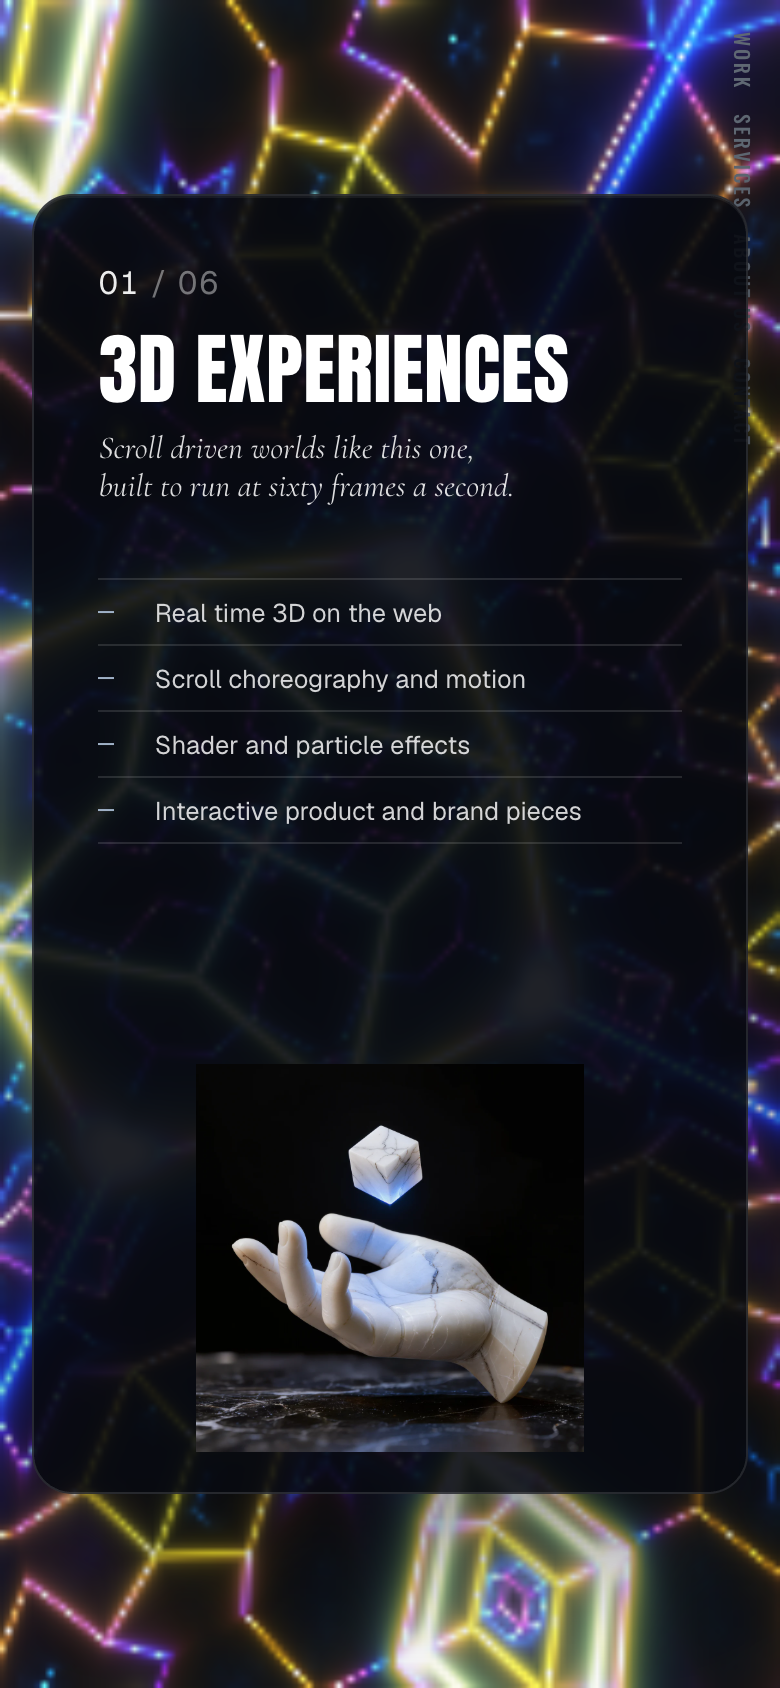
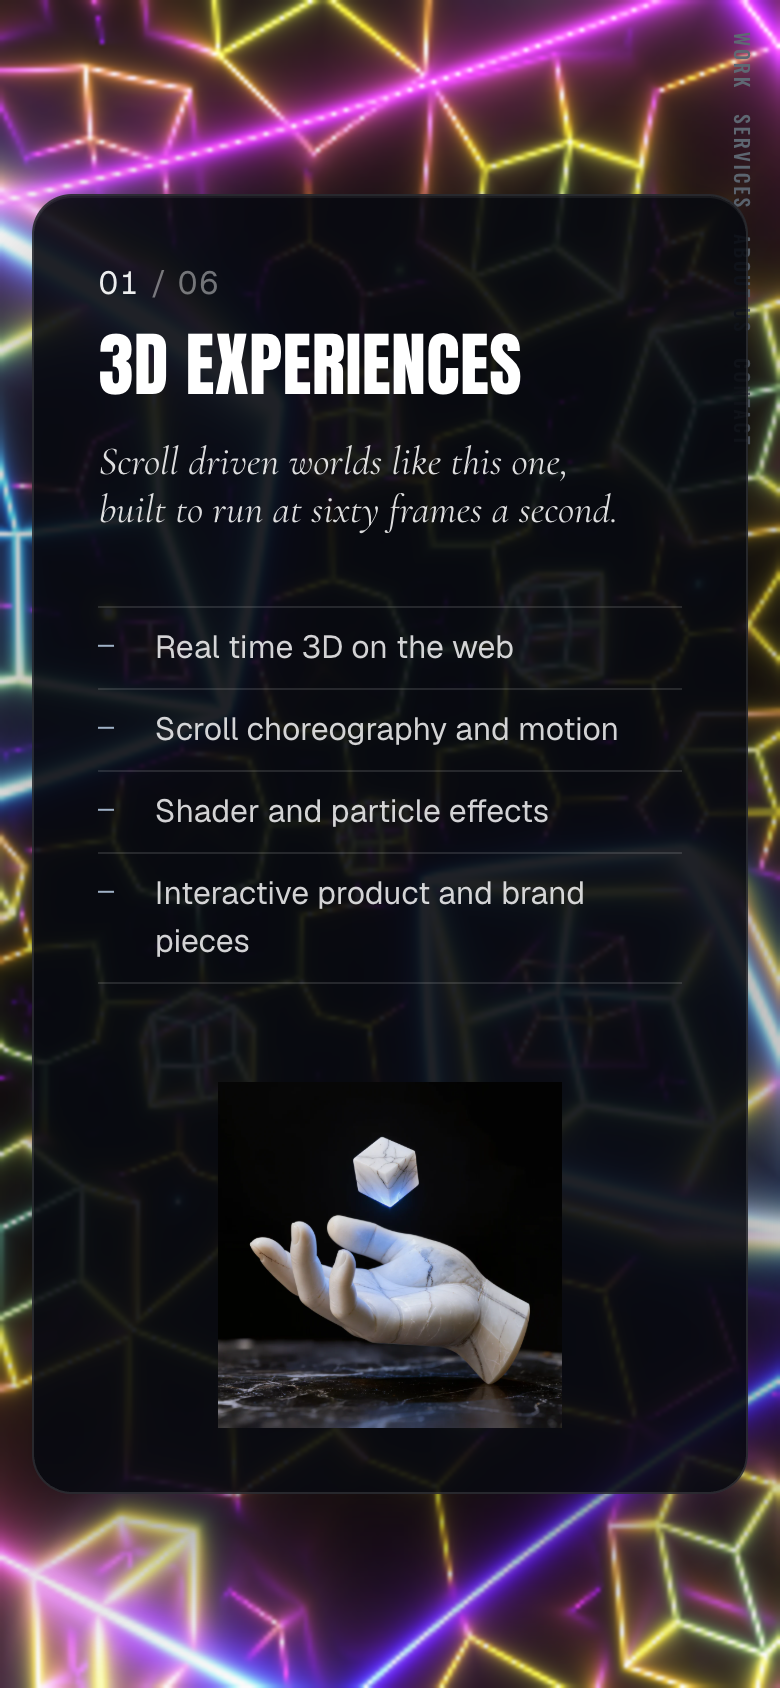
Phones: notice pointing at desktop, geode at half resolution, outlives line in full ink, service cards fill with the picture taking the remaining height
Claude-Session: https://claude.ai/code/session_01NAdPXLUXCGhh82qBsMYyAh

diff --git a/src/app/globals.css b/src/app/globals.css
@@ -1131,7 +1131,7 @@ footer.section {
   /* the statue has the left, so the first three lines take the right */
   .copy--left { left: auto; right: 1rem; top: 12%; transform: none; text-align: right; width: min(66vw, 26ch); }
   .copy--left-a { left: auto; right: 1rem; top: 30%; text-align: right; width: min(60vw, 22ch); }
-  .copy--left-b { left: auto; right: 1rem; top: 55%; text-align: right; width: min(54vw, 22ch); }
+  .copy--left-b { left: auto; right: 1rem; top: 55%; text-align: right; width: min(54vw, 22ch); color: var(--ink); }
   .copy--tight { width: min(76vw, 24ch); top: 9%; font-size: clamp(1.6rem, 7.4vw, 2.5rem); line-height: 1.16; letter-spacing: 0.05em; }
   .copy--right { top: auto; bottom: 24%; transform: none; width: min(72vw, 30ch); }
   /* the pillar stands right of centre: the stack keeps to the left */
@@ -1143,12 +1143,15 @@ footer.section {
   .copy--bottom { width: 92vw; bottom: 6%; }
   /* photos back on the cards: the service image sits under the lead, the project phone shot on the right */
   .deck__card { grid-template-rows: 1fr; }
-  .deck__figure { display: block; position: absolute; left: 1.25rem; right: 1.25rem; bottom: 1.25rem; height: 30%; margin: 0; border: 0; background: transparent; }
-  .deck__figure img { width: 100%; height: 100%; object-fit: contain; }  /* the whole picture, never a crop */
-  .deck__text { padding-bottom: 32%; }
-  .deck__lead { font-size: var(--step-0); }
-  .deck__points { font-size: var(--step--1); margin-top: 1rem; }
-  .deck__points li { padding: 0.4rem 0; }
+  /* the card is a column: text first, the picture takes whatever height is left, whole and uncropped */
+  .deck__card { display: flex; flex-direction: column; }
+  .deck__text { flex: 0 0 auto; padding-bottom: 0; }
+  .deck__figure { display: block; position: static; flex: 1 1 auto; min-height: 0; margin: 1rem 0 0; border: 0; background: transparent; }
+  .deck__figure img { width: 100%; height: 100%; object-fit: contain; }
+  .deck__title { font-size: clamp(2rem, 9vw, 3rem); }
+  .deck__lead { font-size: var(--step-1); margin-top: 0.5rem; }
+  .deck__points { font-size: var(--step-0); margin-top: 1rem; }
+  .deck__points li { padding: 0.5rem 0; }
   .copy--stack-1 { color: var(--ink); }
   .work__card { grid-template-columns: 1fr 34%; gap: 0.75rem; }
   .work__phone { display: block; margin: 0; align-self: center; }
@@ -1163,3 +1166,10 @@ html.is-locked { touch-action: none; overscroll-behavior: none; }
 
 .still-wrap { bottom: auto; height: 100lvh; }  /* the largest viewport: never resizes as the toolbar collapses */
 .still-scene { position: absolute; inset: 0; width: 100%; height: 100%; display: block; }
+
+/* the phone notice */
+.notice { position: fixed; left: 1rem; right: 1rem; bottom: 1rem; z-index: 50; display: flex; align-items: center; gap: 0.75rem; padding: 0.8rem 0.9rem 0.8rem 1rem; border-radius: 0.9rem; background: rgba(20, 32, 46, 0.92); color: var(--marble); font-family: var(--font-body); font-size: var(--step--1); line-height: 1.35; box-shadow: 0 12px 30px rgba(20, 32, 46, 0.3); animation: notice-in 400ms cubic-bezier(0.2, 0.8, 0.2, 1) both; }
+.notice.is-gone { animation: notice-out 300ms ease both; pointer-events: none; }
+.notice button { flex: 0 0 auto; width: 2rem; height: 2rem; border: 0; border-radius: 50%; background: rgba(255, 255, 255, 0.12); color: inherit; font-size: 1.1rem; line-height: 1; }
+@keyframes notice-in { from { opacity: 0; transform: translateY(12px); } to { opacity: 1; transform: none; } }
+@keyframes notice-out { to { opacity: 0; transform: translateY(12px); } }

diff --git a/src/mobile/PhoneNotice.tsx b/src/mobile/PhoneNotice.tsx
@@ -1,0 +1,34 @@
+"use client";
+import { useEffect, useState } from "react";
+import { createPortal } from "react-dom";
+
+/** A small note on phones, shown once the wordmark has landed, pointing people at a bigger screen. Goes on scroll or tap. */
+export function PhoneNotice() {
+  const [state, setState] = useState<"hidden" | "shown" | "gone">("hidden");
+  useEffect(() => {
+    let dismissed = false;
+    try { dismissed = sessionStorage.getItem("bd-notice") === "1"; } catch { /* storage may be off */ }
+    if (dismissed) return;
+    const show = () => setState("shown");
+    const obs = new MutationObserver(() => { if (document.querySelector(".is-revealed")) { obs.disconnect(); setTimeout(show, 600); } });
+    if (document.querySelector(".is-revealed")) setTimeout(show, 600); else obs.observe(document.body, { subtree: true, attributes: true, attributeFilter: ["class"] });
+    return () => obs.disconnect();
+  }, []);
+  useEffect(() => {
+    if (state !== "shown") return;
+    const go = () => { setState("gone"); try { sessionStorage.setItem("bd-notice", "1"); } catch { /* ignore */ } };
+    const t = setTimeout(go, 7000);
+    const onScroll = () => { if (window.scrollY > 40) go(); };
+    window.addEventListener("scroll", onScroll, { passive: true });
+    return () => { clearTimeout(t); window.removeEventListener("scroll", onScroll); };
+  }, [state]);
+  if (state === "hidden") return null;
+  // into the body: the hero stage is where the intro moves nodes about, and React must not insert there
+  return createPortal(
+    <div className={`notice${state === "gone" ? " is-gone" : ""}`} role="status">
+      <span>Built for a big screen. Open it on a desktop for the full experience.</span>
+      <button type="button" aria-label="Dismiss" onClick={() => setState("gone")}>×</button>
+    </div>,
+    document.body,
+  );
+}

diff --git a/src/mobile/StillScene.tsx b/src/mobile/StillScene.tsx
@@ -78,7 +78,7 @@ export function StillScene() {
       canvas.width = Math.round(W * dpr); canvas.height = Math.round(H * dpr);
       if (statue) statue = grid(statue.img, (H * 0.8) * statue.img.naturalWidth / statue.img.naturalHeight, dpr);
       if (pillar) pillar = grid(pillar.img, W * PILLAR.width, dpr);
-      geode?.resize(Math.round(W / 3), Math.round(H / 3));
+      geode?.resize(Math.round(W / 2), Math.round(H / 2));
       return true;
     };
 
@@ -145,6 +145,7 @@ export function StillScene() {
       const p = progress.p, q = progress.q;
       ctx.setTransform(dpr, 0, 0, dpr, 0, 0);
       ctx.clearRect(0, 0, W, H);
+      ctx.imageSmoothingQuality = "high";
 
       // statue: the whole figure on the left, large at the open, easing back and down as the copy arrives
       const reveal = ease.inOut(remap(p, BEATS.reveal[0], BEATS.reveal[1]));
@@ -191,7 +192,7 @@ export function StillScene() {
       const dt = last ? Math.min(0.05, (now - last) / 1000) : 0; last = now;
       const dusty = (p > BEATS.vaporise[0] && p < BEATS.rebuild[1]) || (q > Q.vanish[0] && q < Q.vanish[1]);
       const screenOn = p > BEATS.turn[0] && q < Q.pullOut[1] && !(q > Q.vanish[0]);
-      if (screenOn && !geode && !geodeFailed) { geode = createGeode(GEODE_EXPOSURE); if (geode) geode.resize(Math.round(W / 3), Math.round(H / 3)); else geodeFailed = true; }
+      if (screenOn && !geode && !geodeFailed) { geode = createGeode(GEODE_EXPOSURE); if (geode) geode.resize(Math.round(W / 2), Math.round(H / 2)); else geodeFailed = true; }
       if (!screenOn && geode) { geode.dispose(); geode = null; }
       if (geode) { clock.t += dt; geode.render(clock.t * GEODE_SPEED); if (raf) cancelAnimationFrame(raf); draw(); }
       else if (dusty) { clock.t += dt; kick(); }

diff --git a/src/hero/Hero.tsx b/src/hero/Hero.tsx
@@ -1,6 +1,7 @@
 "use client";
 import { diag, diagStart } from "./diag";
 import { StillScene } from "@/mobile/StillScene";
+import { PhoneNotice } from "@/mobile/PhoneNotice";
 import dynamic from "next/dynamic";
 import { useEffect, useRef, useState } from "react";
 import gsap from "gsap";
@@ -112,6 +113,7 @@ export function Hero() {
             <SkyVideo frozen={frozen} />
             <Copy isStatic={false} layer="behind" />
             {mode === "phone" ? <StillScene /> : <Scene frozen={frozen} />}
+            {mode === "phone" && <PhoneNotice />}
             <Intro stage={stage} />
           </>
         )}
